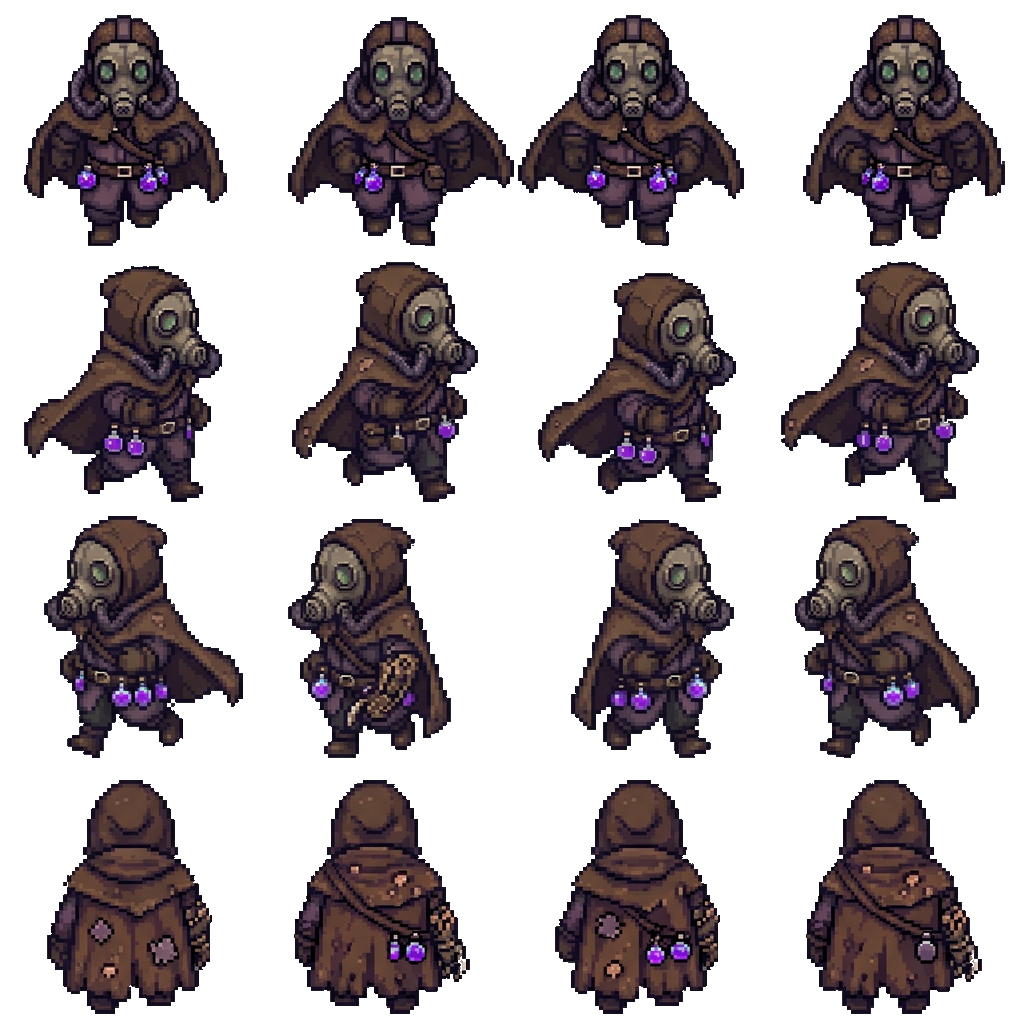
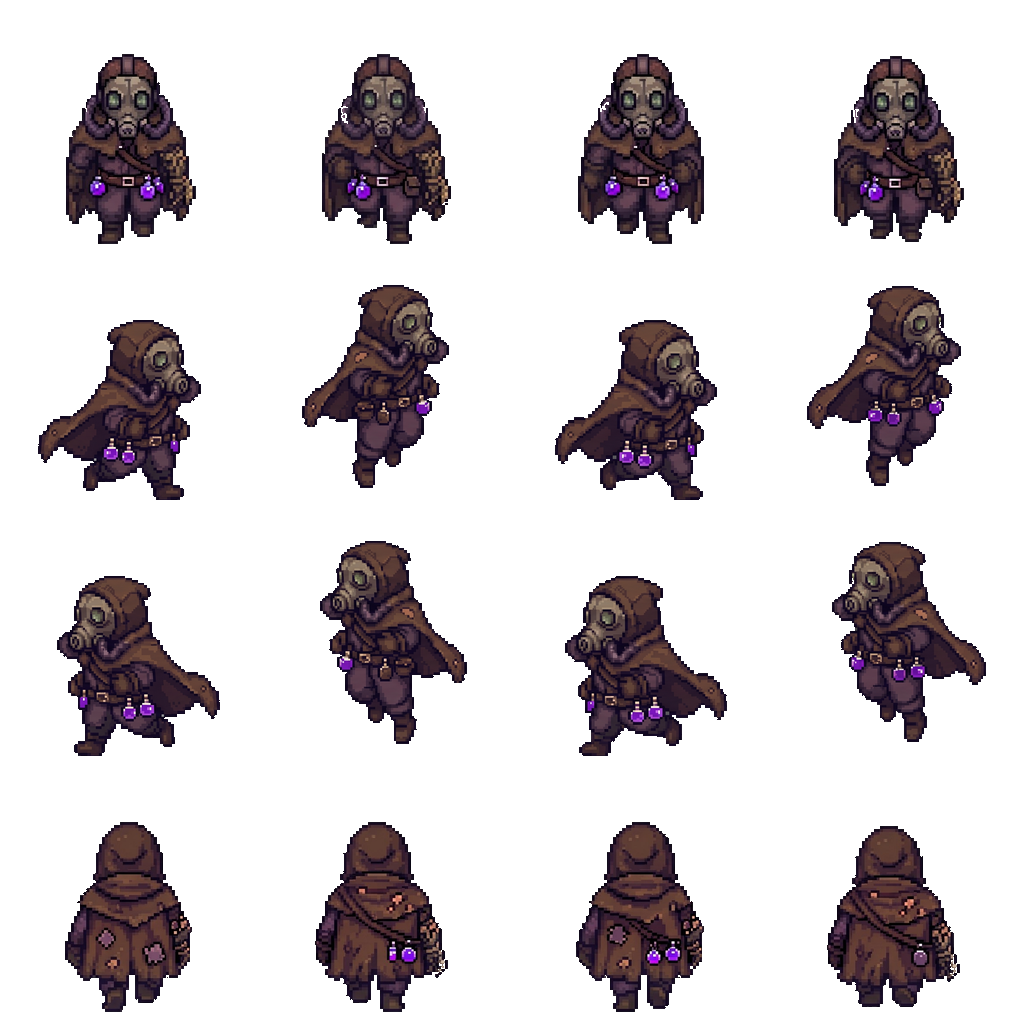
Пересобрать лист бега: настоящий цикл шага в профиль
Виды сбоку заменены новой генерацией — она сделана отдельной полосой из
четырёх кадров с описанием каждой позы, и в ней наконец честный цикл
контакт-полёт-контакт-полёт: соседние кадры различаются на 68% против 12-20%
у листа целиком, где модель просто повторяла одну позу.

Профиль нарисован один раз, влево получен зеркалом. Виды на камеру и со спины
оставлены от прошлой генерации: там ног по-прежнему почти не видно, но лучше
исходника нет.

Обработка. Масштаб считается СВОЙ У КАЖДОГО РЯДА по медиане роста его кадров,
а не одним множителем на лист: ряды пришли из двух генераций, где фигура
нарисована в совершенно разном размере (680 пикселей при кадре 1032 против
420 при кадре 512), и общий множитель дал бы персонажа вдвое крупнее в
профиль, чем анфас. Медиана, а не максимум, — внутри цикла рост честно гуляет,
и эту разницу надо сохранить.

Подскок в кадрах полёта урезан вдвое: в исходнике он 15% роста фигуры, что на
экране означает девять пикселей вверх-вниз при персонаже в 64 — это читается
как прыжки, а не как бег.

Нарисованная линия земли обрезана, фон снят заливкой по цветности: модель
так и не выдала альфу, второй файл формально PNG, но альфа-канал в нём
полностью непрозрачный — шахматка нарисована пикселями.

Проверено в браузере: ряды совпадают с направлением движения, ошибок нет.

Claude-Session: https://claude.ai/code/session_01Dw5UZzfQJ9ZDdDJ9huqxKv

diff --git a/docs/ASSET_PROMPTS.md b/docs/ASSET_PROMPTS.md
@@ -179,6 +179,37 @@ Rows top to bottom:
 в ряду и сколько рядов. Первая версия листа вышла 2048x2048 при заказанных
 1536x1024, и это ничему не помешало.
 
+### Что в итоге сработало
+
+Ключ — **генерировать ПО ОДНОМУ РЯДУ** и описывать каждый кадр отдельной
+строкой («левая нога впереди», «в воздухе», «правая нога впереди»,
+«в воздухе»). Пока просили лист 4x4 целиком, модель выдавала одну и ту же
+позу в четырёх экземплярах: сравнение силуэтов давало 12-20% различий, то
+есть шага не было. Полоса из четырёх кадров с описанием каждого дала честный
+цикл контакт-полёт-контакт-полёт, различие соседних кадров 68%.
+
+Вид сбоку достаточно нарисовать ОДИН раз: второй профиль получается зеркалом
+при сборке листа, и это нормальная практика.
+
+Что модель так и не смогла, сколько ни проси, — **настоящую прозрачность**.
+Оба раза она РИСОВАЛА шахматку, то есть узор, которым редакторы показывают
+прозрачный фон. Во второй раз файл был даже PNG, но альфа-канал в нём
+полностью непрозрачный. Планируй, что фон придётся снимать заливкой по
+цветности: фон ахроматичен, а плащ и склянки цветные.
+
+Ещё две вещи, которые чинятся только обработкой, — проси, но не рассчитывай:
+- **разный размер фигуры между кадрами** (в полосе кадры полёта вышли на 13%
+  крупнее кадров контакта);
+- **высота подскока**: в полосе он 100 пикселей при росте фигуры 680, то есть
+  15%. При росте персонажа на экране в 64 пикселя это девять пикселей
+  вверх-вниз — прыжки, а не бег. При сборке оставлена половина.
+
+Если генерируешь ряд отдельной полосой, не забудь: линию земли модель рисует
+прямо в картинку, её надо обрезать, иначе она попадёт в кадр как чёрная
+полоса под ногами.
+
+---
+
 ### Что пошло не так в первой версии листа — правь промпт этим
 
 Лист от бота пришёл рабочим, но по четырём пунктам разошёлся с заказом. Всё
